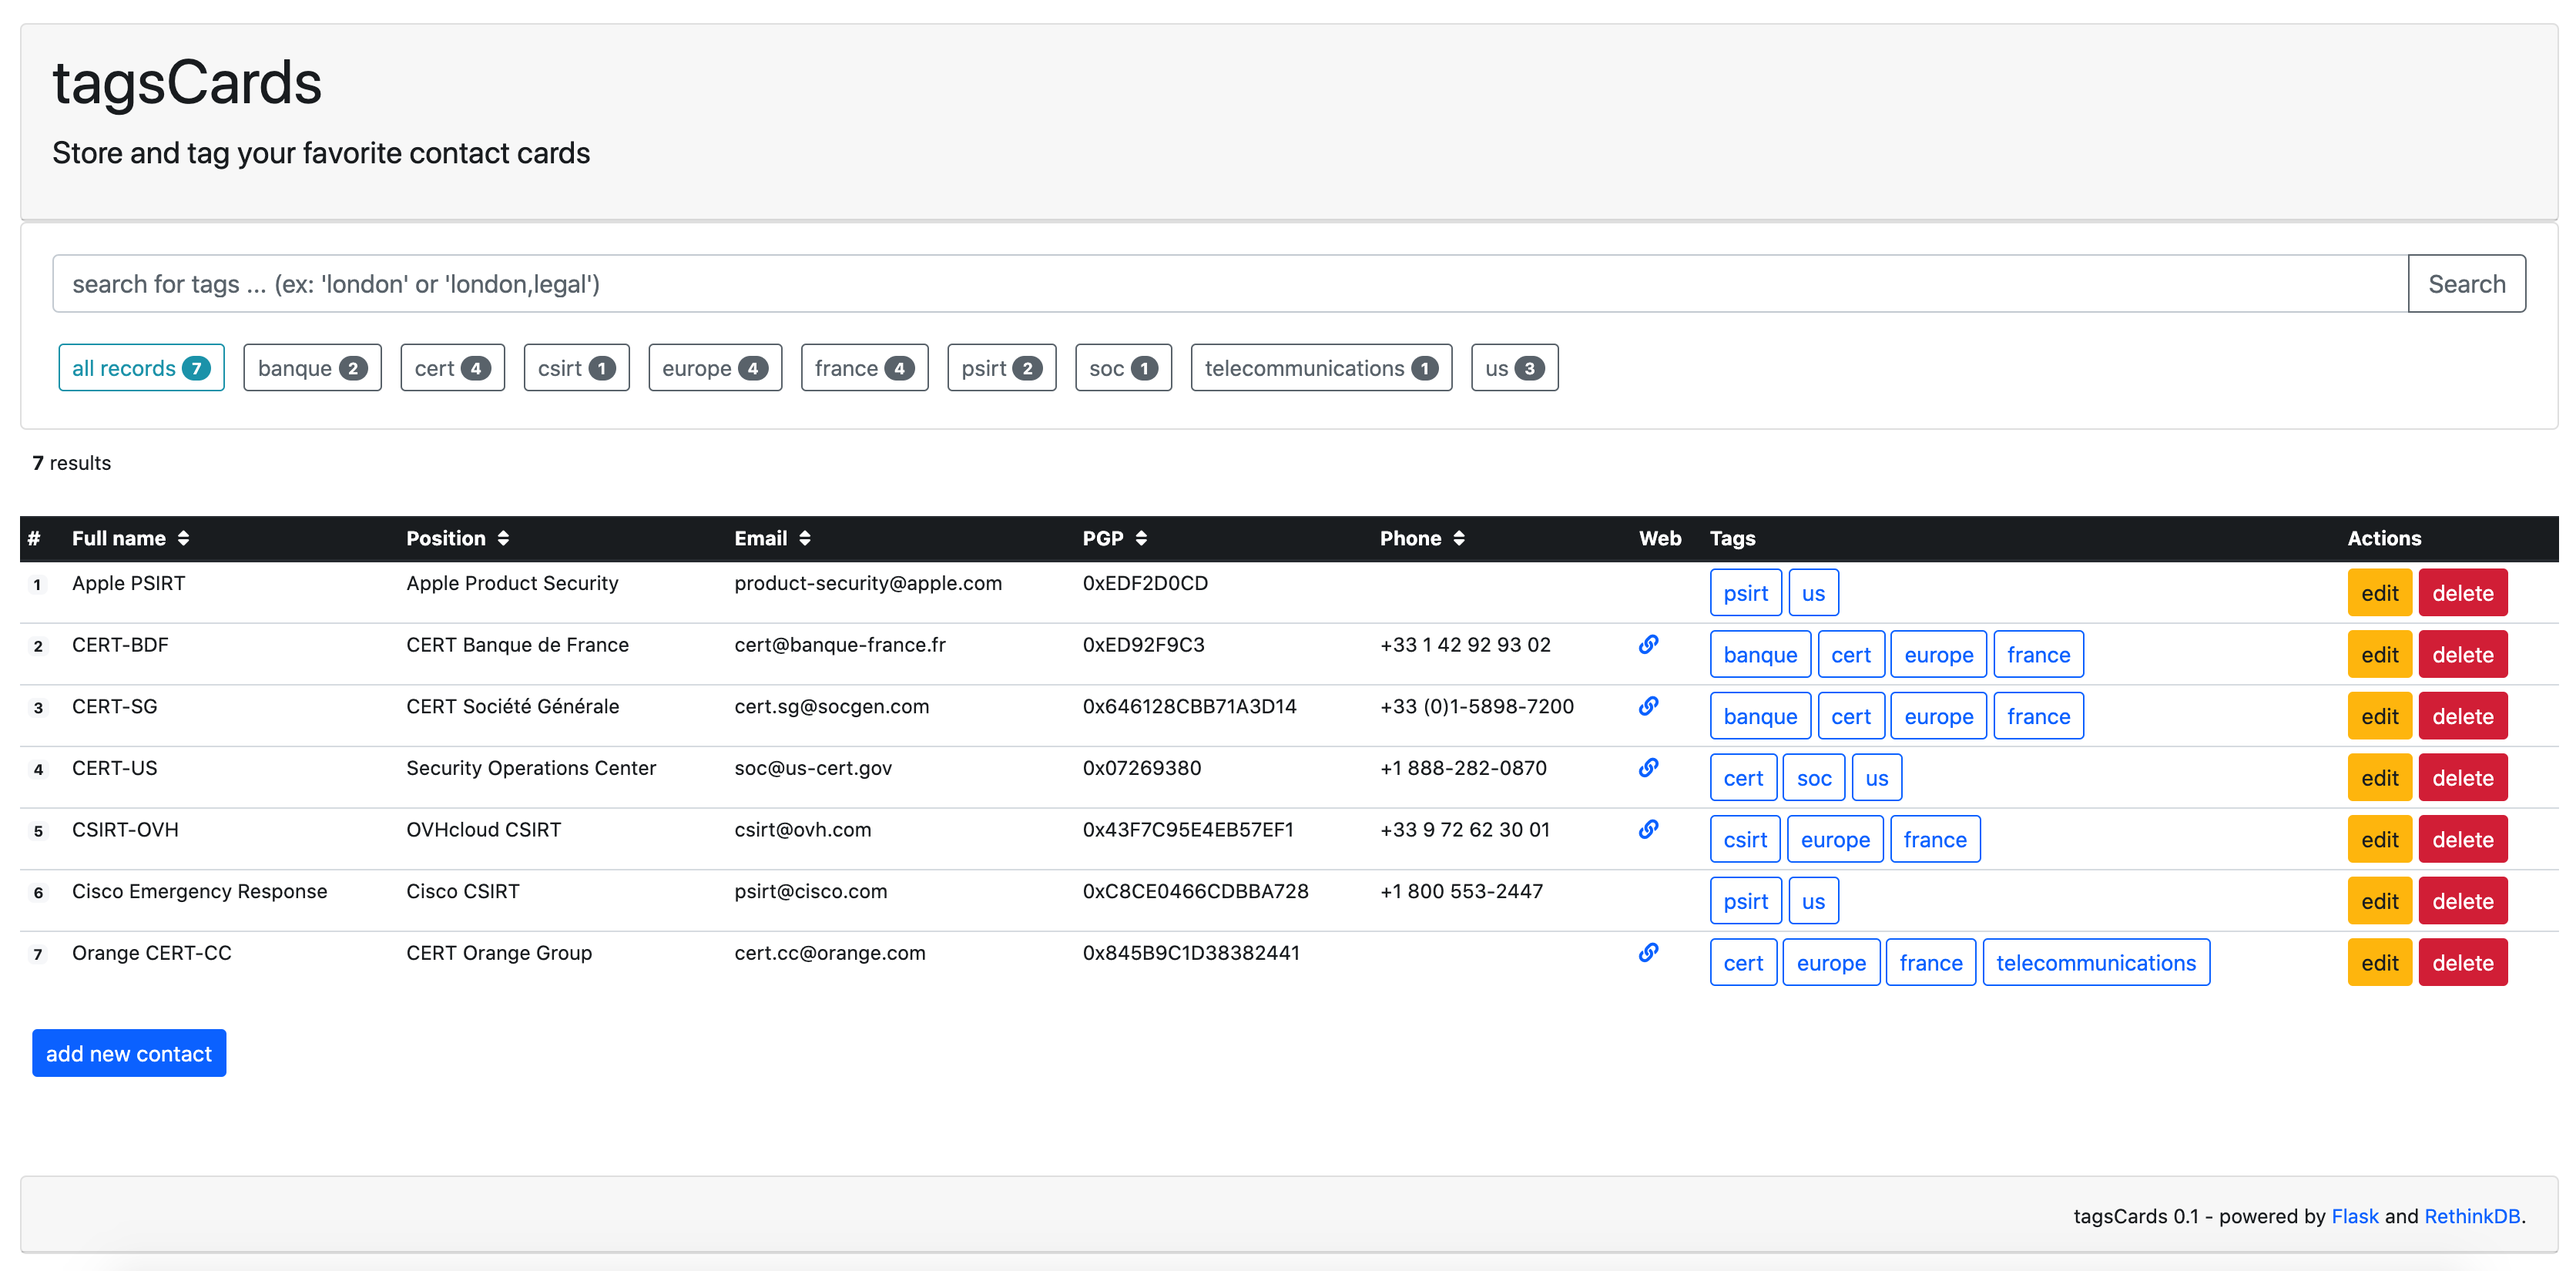
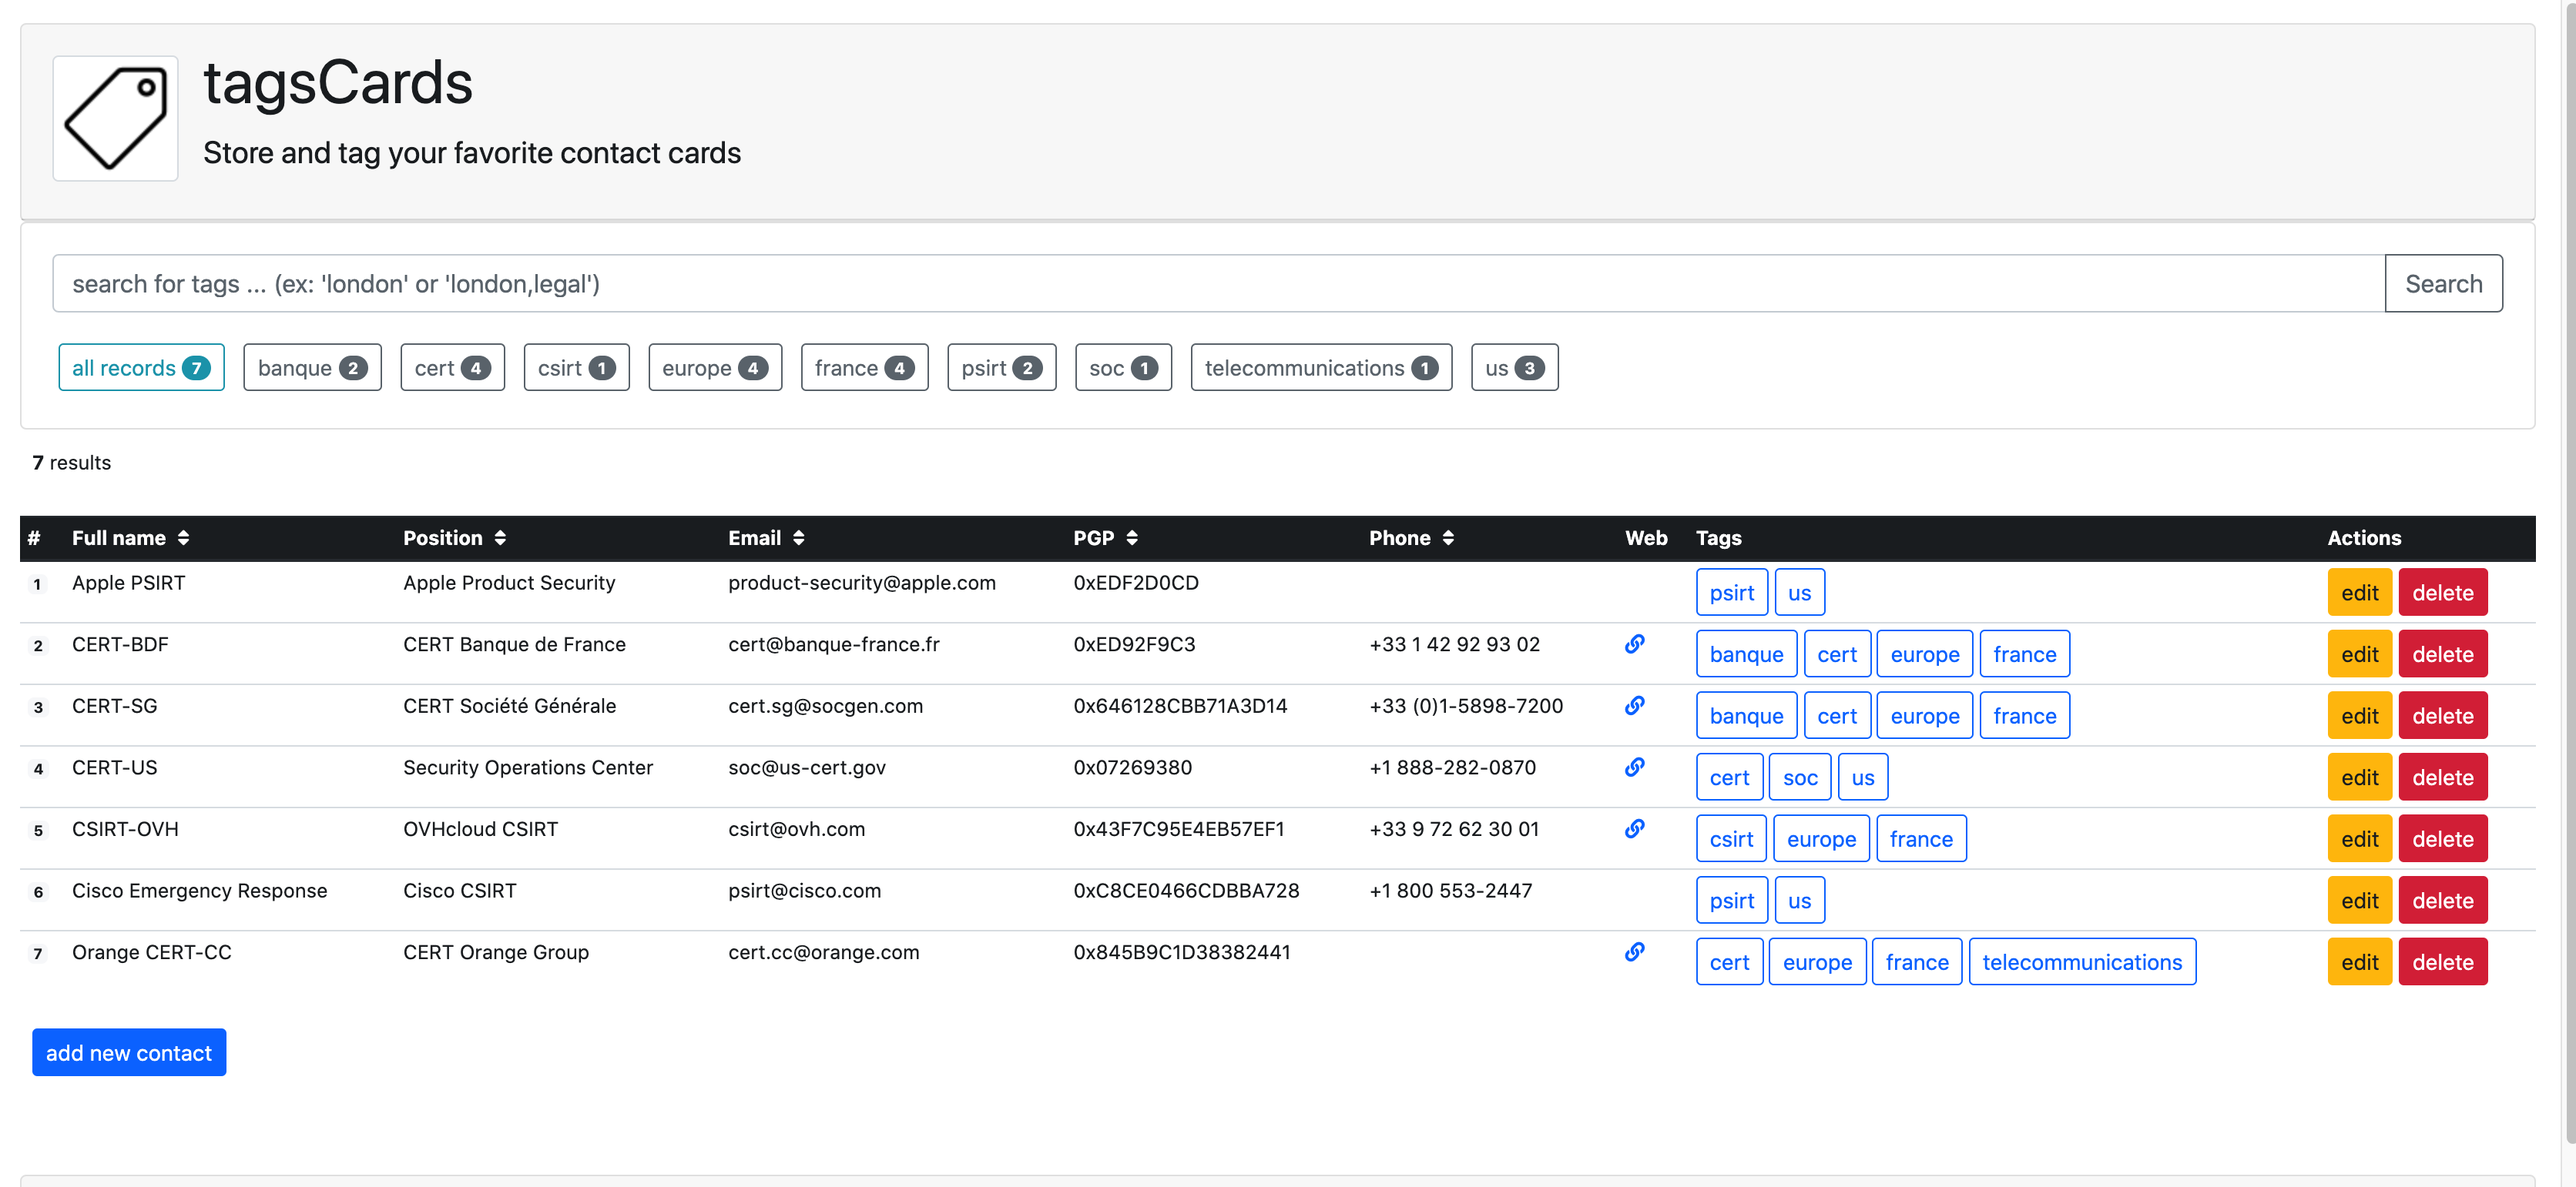
update samples

diff --git a/web/templates/header.html b/web/templates/header.html
@@ -1,6 +1,9 @@
 <div class="card">
     <div class="card-header">
-        <h1 class="display-12">{{ config.APP_NAME }}</h1>
+        <a href="{{ url_for('contacts_all') }}"><img src="{{ url_for('static',filename='logo.png') }}" class="float-left mt-2 mr-3 img-thumbnail" /></a>
+        <h1 class="display-12">
+            {{ config.APP_NAME }}
+        </h1>
         <p class="lead">{{ config.APP_TITLE }}</p>
     </div>
 </div>
